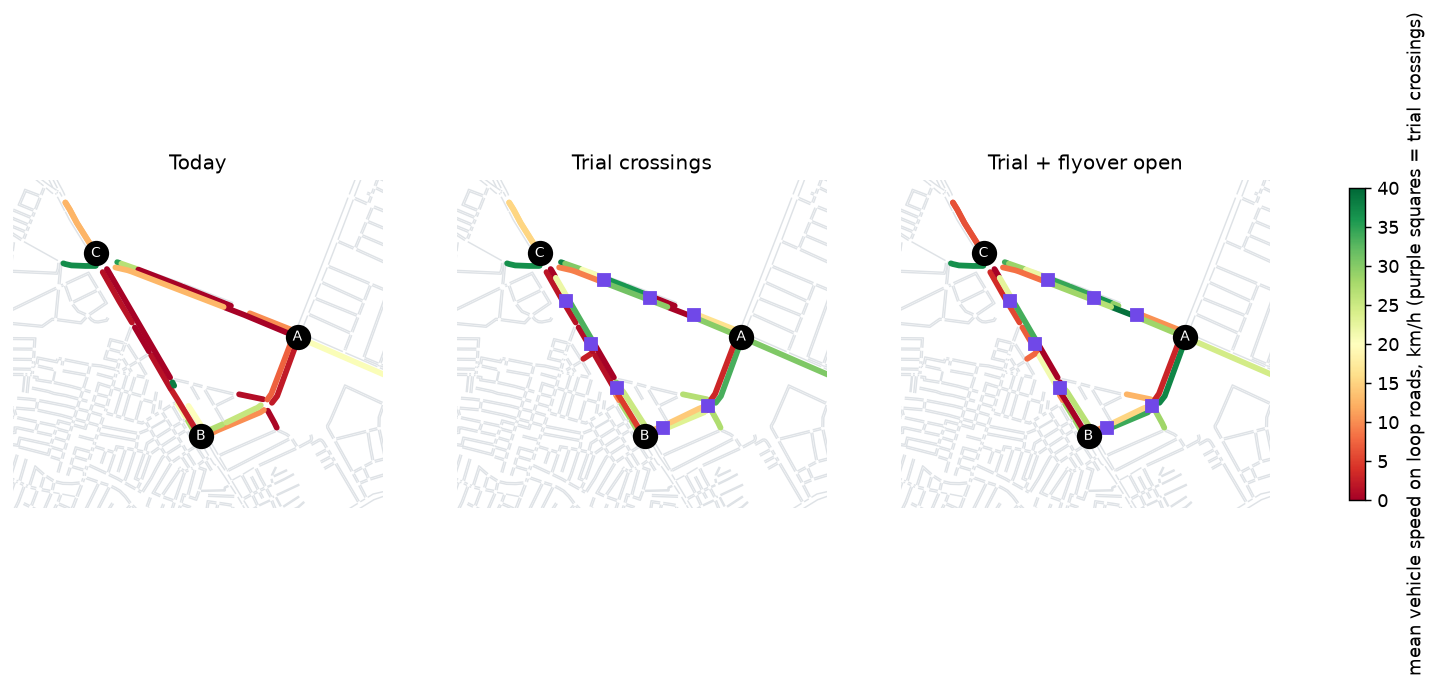
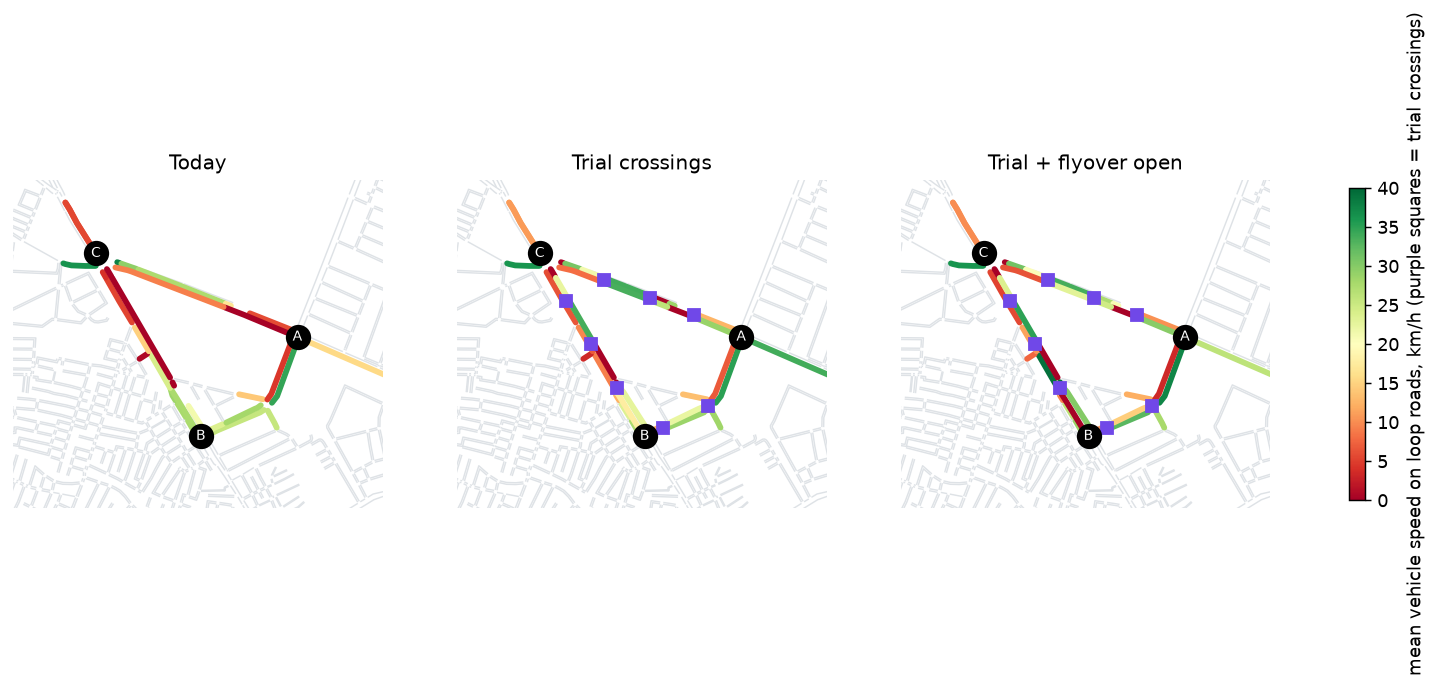
Turn-only median lane with a protected green at C; snapshot tool
Baseline now moves: 12,552 of 14,119 vehicles enter, loop speeds are
8-29 km/h, pedestrian results are back to their earlier values.

diff --git a/scripts/snapshot.py b/scripts/snapshot.py
@@ -1,0 +1,48 @@
+"""Draw a still picture of a simulation moment from SUMO's position output (no display needed).
+
+Used to see where traffic is stuck when sumo-gui cannot be looked at. Lanes are drawn from the network, vehicles
+from an FCD file (sumo --fcd-output) at one timestep: colour by type, a red outline when stopped.
+
+  python snapshot.py NET FCD OUT.png LON LAT [half_width_m=120] [time]
+"""
+import math, sys, xml.etree.ElementTree as ET
+from PIL import Image, ImageDraw
+from common import read_net
+
+net_f, fcd_f, out_f, lon, lat = sys.argv[1], sys.argv[2], sys.argv[3], float(sys.argv[4]), float(sys.argv[5])
+half = float(sys.argv[6]) if len(sys.argv) > 6 else 120.0
+want_t = sys.argv[7] if len(sys.argv) > 7 else None
+net = read_net(net_f); cx, cy = net.convertLonLat2XY(lon, lat)
+W = 1400; S = W / (2 * half)
+px = lambda x, y: ((x - cx + half) * S, (cy + half - y) * S)
+img = Image.new('RGB', (W, W), (245, 243, 238)); d = ImageDraw.Draw(img, 'RGBA')
+for e in net.getEdges(withInternal=True):
+    for l in e.getLanes():
+        shp = l.getShape()
+        if not any(abs(x - cx) < half + 30 and abs(y - cy) < half + 30 for x, y in shp): continue
+        veh = l.allows('passenger'); ped = l.allows('pedestrian') and not veh
+        col = (150, 150, 150, 255) if veh else (225, 215, 195, 255) if ped else (190, 190, 190, 255)
+        if e.getFunction() == 'crossing': col = (255, 255, 255, 255)
+        d.line([px(*p) for p in shp], fill=col, width=max(1, int(l.getWidth() * S) - 1))
+        if veh and e.getFunction() != 'internal' and l.getLength() > 25:
+            mx, my = shp[len(shp) // 2]; d.text(px(mx, my), f"{e.getID()}_{l.getIndex()}", fill=(60, 60, 60, 255))
+COL = {'two_wheeler': (255, 140, 0), 'car': (40, 110, 220), 'auto': (30, 160, 70), 'bus': (220, 30, 30), 'person': (220, 0, 220)}
+step = None
+for ev, el in ET.iterparse(fcd_f, events=('start', 'end')):
+    if ev == 'start' and el.tag == 'timestep': cur = el.get('time')
+    if ev == 'end' and el.tag == 'timestep':
+        if want_t is None or cur.startswith(want_t): step = el; break
+        el.clear()
+n = stopped = 0
+for v in step:
+    x, y = float(v.get('x')), float(v.get('y'))
+    if abs(x - cx) > half or abs(y - cy) > half: continue
+    X, Y = px(x, y)
+    if v.tag == 'person': d.ellipse([X - 2, Y - 2, X + 2, Y + 2], fill=COL['person'] + (255,)); continue
+    t = v.get('type'); col = COL.get(t, (130, 90, 50)); sp = float(v.get('speed')); a = math.radians(90 - float(v.get('angle')))
+    L = {'two_wheeler': 2.0, 'car': 4.3, 'auto': 2.8, 'bus': 11.0}.get(t, 6.0); Wd = {'two_wheeler': 0.8, 'bus': 2.5}.get(t, 1.7)
+    bx, by = x - math.cos(a) * L, y - math.sin(a) * L; nx, ny = -math.sin(a) * Wd / 2, math.cos(a) * Wd / 2
+    poly = [px(x + nx, y + ny), px(x - nx, y - ny), px(bx - nx, by - ny), px(bx + nx, by + ny)]
+    d.polygon(poly, fill=col + (255,), outline=(200, 0, 0, 255) if sp < 0.3 else (0, 0, 0, 255)); n += 1; stopped += sp < 0.3
+d.text((10, 10), f"t={step.get('time')}  vehicles {n}, stopped {stopped} (red outline)   orange 2-wheeler, blue car, green auto, red bus, brown goods, magenta people", fill=(0, 0, 0, 255))
+img.save(out_f); print(out_f, 'vehicles', n, 'stopped', stopped)

diff --git a/scripts/build_net.py b/scripts/build_net.py
@@ -143,10 +143,32 @@ for jid, ll in JUNCTIONS.items():
         if jid not in SIGNALISED:
             if near and n.getType().startswith('traffic_light'): unset.append(n.getID())
         elif len(road) >= 3 and main and n.getType() != 'traffic_light' and near: tls_nodes.append(n.getID())
+# turn-only median lane at the signalised junctions (config signals._turn_note): drop the straight-ahead movement from the
+# lane that also turns across oncoming traffic, so netconvert gives that turn a protected green
+con = ET.Element('connections'); turn_lanes = 0
+TURN_AT = [j for j in C.get('turn_only_median_lane_at', SIGNALISED) if j in SIGNALISED]
+for jid in TURN_AT:
+    x, y = p1.convertLonLat2XY(*JUNCTIONS[jid])
+    for n in p1.getNodes():
+        if math.dist(n.getCoord(), (x, y)) > RADIUS[jid] or not (n.getID() in tls_nodes or n.getType().startswith('traffic_light')): continue
+        for e in n.getIncoming():
+            lanes = [l.getIndex() for l in e.getLanes() if l.allows('passenger')]
+            if len(lanes) < 3: continue
+            top = [c for o in e.getOutgoing() for c in e.getConnections(o) if c.getFromLane().getIndex() == lanes[-1]]
+            turns = [c for c in top if c.getDirection() in ('r', 'R', 't', 'T')]          # left-hand traffic: the turn across oncoming traffic
+            straight = [c for c in top if c.getDirection() == 's']
+            if turns and straight:
+                for c in straight:
+                    ET.SubElement(con, 'delete', attrib={'from': e.getID(), 'to': c.getTo().getID(), 'fromLane': str(lanes[-1]), 'toLane': str(c.getToLane().getIndex())})
+                turn_lanes += 1
+ET.ElementTree(con).write(P('net', 'plain', 'turn_lanes.con.xml'))
+if turn_lanes: patched.append(f"turn-only median lane with a protected green on {turn_lanes} approach(es) at junction(s) {', '.join(TURN_AT)}")
 patched.append(f"signals at junctions {', '.join(SIGNALISED)}" + (f"; removed at {len(unset)} node(s) of the others" if unset else ''))
 run([BIN('netconvert'), '-c', P('net', 'tls.netccfg'), '--sumo-net-file', P('net', 'pass1.net.xml'),
      '--output-file', P('net', 'base.net.xml')] + (['--tls.set', ','.join(tls_nodes)] if tls_nodes else [])
-    + (['--tls.unset', ','.join(unset)] if unset else []) + tls_opts,
+    + (['--tls.unset', ','.join(unset)] if unset else [])
+    + (['--connection-files', P('net', 'plain', 'turn_lanes.con.xml'), '--tls.rebuild', 'true',
+        '--tls.left-green.time', str(C.get('protected_turn_green_s', 6))] if turn_lanes else []) + tls_opts,
     log=P('out', 'checks', 'netconvert_pass2.log'))
 
 # ---- checks --------------------------------------------------------------------------------

diff --git a/report/REPORT.md b/report/REPORT.md
@@ -16,9 +16,9 @@ volumes, pedestrian volumes and signal timings are **assumptions** until the sit
 
 | Scenario | People crossing (trips) | Crossing trip time, s (Δ vs today) | Extra walk, m (Δ) | Time lost walking, s (Δ) | Vehicle delay per trip incl. waiting to enter, s (Δ) | Bus delay per trip, s (Δ) | Vehicles never let in | Teleports | Collisions |
 |---|---|---|---|---|---|---|---|---|---|
-| Today | 2610 | 196.6 (+0.0) | 145.4 (+0.0) | 64.4 (+0.0) | 834.0 (+0.0) | 972.1 (+0.0) | 3547 | 174 | 23 |
-| Trial crossings | 2609 | 141.2 (-55.4) | 95.1 (-50.3) | 45.7 (-18.7) | 713.8 (-120.2) | 1052.4 (+80.3) | 2936 | 148 | 25 |
-| Trial + flyover open | 2609 | 141.2 (-55.4) | 94.8 (-50.6) | 46.0 (-18.4) | 293.9 (-540.1) | 539.1 (-433.0) | 160 | 94 | 10 |
+| Today | 2610 | 203.0 (+0.0) | 145.2 (+0.0) | 71.0 (+0.0) | 451.7 (+0.0) | 550.9 (+0.0) | 1567 | 198 | 15 |
+| Trial crossings | 2557 | 236.4 (+33.4) | 95.1 (-50.1) | 140.8 (+69.8) | 587.4 (+135.7) | 802.2 (+251.3) | 2282 | 129 | 14 |
+| Trial + flyover open | 2609 | 142.9 (-60.1) | 94.8 (-50.4) | 47.7 (-23.3) | 258.6 (-193.1) | 443.7 (-107.2) | 164 | 90 | 6 |
 
 *Vehicles never let in* = demand that could not enter the network before the simulation ended — a sign the assumed volumes exceed what the entries and signals can carry (Madiwala is congested at peak, but the volumes are uncalibrated).
 
@@ -27,117 +27,117 @@ volumes, pedestrian volumes and signal timings are **assumptions** until the sit
 ### People crossing each road
 | Scenario | Road | Trips | Trip time mean s | p85 s | Time lost s | Walked m | Straight-line m | Extra m | Detour factor (median) |
 |---|---|---|---|---|---|---|---|---|---|
-| Today | 100 Feet Road | 825 | 99.5 | 162.0 | 44.4 | 75.5 | 33.5 | 42.0 | 1.5 |
-| Today | Hosur Road | 994 | 297.1 | 517.0 | 77.1 | 302.5 | 39.6 | 262.9 | 5.79 |
-| Today | Sarjapura Road | 791 | 171.5 | 283.5 | 69.4 | 140.2 | 34.6 | 105.6 | 2.96 |
-| Trial crossings | 100 Feet Road | 824 | 99.0 | 134.5 | 30.7 | 94.0 | 33.5 | 60.5 | 1.42 |
-| Trial crossings | Hosur Road | 994 | 197.3 | 432.0 | 53.0 | 198.3 | 39.6 | 158.7 | 3.22 |
-| Trial crossings | Sarjapura Road | 791 | 114.8 | 176.0 | 52.1 | 85.7 | 34.6 | 51.1 | 2.35 |
-| Trial + flyover open | 100 Feet Road | 824 | 98.8 | 128.5 | 30.7 | 94.0 | 33.5 | 60.5 | 1.42 |
-| Trial + flyover open | Hosur Road | 994 | 196.2 | 438.0 | 52.2 | 197.6 | 39.6 | 158.0 | 3.22 |
-| Trial + flyover open | Sarjapura Road | 791 | 116.1 | 173.5 | 54.2 | 85.6 | 34.6 | 51.0 | 2.35 |
+| Today | 100 Feet Road | 825 | 99.7 | 153.0 | 44.6 | 75.5 | 33.5 | 42.0 | 1.5 |
+| Today | Hosur Road | 994 | 292.4 | 500.5 | 72.6 | 302.3 | 39.6 | 262.7 | 5.79 |
+| Today | Sarjapura Road | 791 | 198.5 | 310.0 | 96.6 | 139.9 | 34.6 | 105.3 | 2.96 |
+| Trial crossings | 100 Feet Road | 824 | 93.7 | 123.5 | 25.5 | 94.0 | 33.5 | 60.5 | 1.42 |
+| Trial crossings | Hosur Road | 942 | 454.4 | 900.5 | 307.3 | 202.1 | 39.7 | 162.4 | 3.27 |
+| Trial crossings | Sarjapura Road | 791 | 125.3 | 190.0 | 62.6 | 85.7 | 34.6 | 51.0 | 2.35 |
+| Trial + flyover open | 100 Feet Road | 824 | 92.9 | 120.5 | 24.8 | 94.1 | 33.5 | 60.6 | 1.42 |
+| Trial + flyover open | Hosur Road | 994 | 195.7 | 439.5 | 51.7 | 197.6 | 39.6 | 158.0 | 3.2 |
+| Trial + flyover open | Sarjapura Road | 791 | 128.5 | 196.5 | 66.5 | 85.6 | 34.6 | 51.0 | 2.35 |
 
 ### Vehicles along each loop road
 ![vehicles](vehicles.png)
 
 | Scenario | Road | Direction | Length m | Travel time s | Free-flow s | Delay s | Avg speed km/h | Vehicles/h (max edge) |
 |---|---|---|---|---|---|---|---|---|
-| Today | 100 Feet Road | A>B | 478 | 839.5 | 37.4 | 802.1 | 2.1 | 306 |
-| Today | 100 Feet Road | B>A | 474 | 397.7 | 56.9 | 340.8 | 4.3 | 714 |
-| Today | Hosur Road | B>C | 829 | 2311.0 | 65.1 | 2245.8 | 1.3 | 526 |
-| Today | Hosur Road | C>B | 725 | 109.0 | 49.1 | 59.8 | 24.0 | 2243 |
-| Today | Sarjapura Road | C>A | 750 | 150.9 | 51.3 | 99.6 | 17.9 | 2243 |
-| Today | Sarjapura Road | A>C | 922 | 181.0 | 66.4 | 114.5 | 18.4 | 1407 |
-| Trial crossings | 100 Feet Road | A>B | 463 | 68.8 | 36.3 | 32.5 | 24.2 | 900 |
-| Trial crossings | 100 Feet Road | B>A | 460 | 294.3 | 55.2 | 239.0 | 5.6 | 384 |
-| Trial crossings | Hosur Road | B>C | 819 | 1182.6 | 64.4 | 1118.2 | 2.5 | 689 |
-| Trial crossings | Hosur Road | C>B | 793 | 127.4 | 57.8 | 69.6 | 22.4 | 2263 |
-| Trial crossings | Sarjapura Road | C>A | 737 | 128.3 | 50.4 | 77.9 | 20.7 | 2263 |
-| Trial crossings | Sarjapura Road | A>C | 910 | 145.5 | 65.5 | 80.0 | 22.5 | 1094 |
-| Trial + flyover open | 100 Feet Road | A>B | 463 | 51.3 | 36.3 | 15.0 | 32.5 | 572 |
-| Trial + flyover open | 100 Feet Road | B>A | 460 | 327.8 | 55.2 | 272.5 | 5.1 | 534 |
-| Trial + flyover open | Hosur Road | B>C | 819 | 286.7 | 64.4 | 222.4 | 10.3 | 1744 |
-| Trial + flyover open | Hosur Road | C>B | 793 | 196.1 | 57.8 | 138.3 | 14.5 | 2143 |
-| Trial + flyover open | Sarjapura Road | C>A | 737 | 225.0 | 50.4 | 174.5 | 11.8 | 2143 |
-| Trial + flyover open | Sarjapura Road | A>C | 910 | 165.1 | 65.5 | 99.5 | 19.9 | 855 |
+| Today | 100 Feet Road | A>B | 478 | 59.0 | 37.4 | 21.7 | 29.2 | 1163 |
+| Today | 100 Feet Road | B>A | 474 | 223.3 | 56.9 | 166.4 | 7.6 | 459 |
+| Today | Hosur Road | B>C | 829 | 353.4 | 65.1 | 288.3 | 8.4 | 2158 |
+| Today | Hosur Road | C>B | 725 | 186.7 | 49.1 | 137.6 | 14.0 | 2120 |
+| Today | Sarjapura Road | C>A | 750 | 288.2 | 51.3 | 236.9 | 9.4 | 2120 |
+| Today | Sarjapura Road | A>C | 922 | 238.8 | 66.4 | 172.4 | 13.9 | 918 |
+| Trial crossings | 100 Feet Road | A>B | 463 | 55.3 | 36.3 | 19.0 | 30.1 | 861 |
+| Trial crossings | 100 Feet Road | B>A | 460 | 167.8 | 55.2 | 112.5 | 9.9 | 366 |
+| Trial crossings | Hosur Road | B>C | 819 | 289.4 | 64.4 | 225.0 | 10.2 | 1746 |
+| Trial crossings | Hosur Road | C>B | 793 | 150.9 | 57.8 | 93.1 | 18.9 | 2318 |
+| Trial crossings | Sarjapura Road | C>A | 737 | 161.8 | 50.4 | 111.4 | 16.4 | 2318 |
+| Trial crossings | Sarjapura Road | A>C | 910 | 151.0 | 65.5 | 85.5 | 21.7 | 918 |
+| Trial + flyover open | 100 Feet Road | A>B | 463 | 51.4 | 36.3 | 15.1 | 32.4 | 621 |
+| Trial + flyover open | 100 Feet Road | B>A | 460 | 306.6 | 55.2 | 251.3 | 5.4 | 354 |
+| Trial + flyover open | Hosur Road | B>C | 819 | 223.9 | 64.4 | 159.5 | 13.2 | 2066 |
+| Trial + flyover open | Hosur Road | C>B | 793 | 145.0 | 57.8 | 87.2 | 19.7 | 2271 |
+| Trial + flyover open | Sarjapura Road | C>A | 737 | 181.6 | 50.4 | 131.2 | 14.6 | 2271 |
+| Trial + flyover open | Sarjapura Road | A>C | 910 | 187.5 | 65.5 | 122.0 | 17.5 | 795 |
 
 ### Queues at signals
 ![queues](queues.png)
 
 | Scenario | Signal (A/B/C, X0-X7 = trial crossings) | Approach lanes | Mean queue, worst lane m | Max queue m |
 |---|---|---|---|---|
-| Today | A | 18 | 40.2 | 150.1 |
-| Today | C | 20 | 61.9 | 150.1 |
-| Trial crossings | A | 18 | 69.1 | 150.1 |
-| Trial crossings | C | 20 | 38.1 | 150.1 |
-| Trial crossings | X0 | 8 | 8.0 | 75.8 |
-| Trial crossings | X1 | 8 | 4.4 | 80.9 |
-| Trial crossings | X2 | 4 | 0.1 | 4.8 |
-| Trial crossings | X3 | 14 | 17.6 | 29.1 |
-| Trial crossings | X4 | 14 | 71.2 | 75.3 |
-| Trial crossings | X5 | 12 | 3.0 | 53.2 |
-| Trial crossings | X6 | 12 | 1.6 | 27.3 |
-| Trial crossings | X7 | 12 | 3.6 | 139.3 |
-| Trial + flyover open | A | 18 | 86.4 | 150.1 |
-| Trial + flyover open | C | 20 | 143.5 | 150.1 |
-| Trial + flyover open | X0 | 8 | 6.9 | 77.1 |
-| Trial + flyover open | X1 | 8 | 4.0 | 45.1 |
-| Trial + flyover open | X2 | 4 | 0.2 | 11.1 |
-| Trial + flyover open | X3 | 14 | 9.2 | 35.9 |
-| Trial + flyover open | X4 | 14 | 69.3 | 73.2 |
-| Trial + flyover open | X5 | 12 | 3.8 | 59.6 |
-| Trial + flyover open | X6 | 12 | 1.4 | 30.6 |
-| Trial + flyover open | X7 | 12 | 5.0 | 139.4 |
+| Today | A | 18 | 72.5 | 150.1 |
+| Today | C | 20 | 88.8 | 150.1 |
+| Trial crossings | A | 18 | 37.5 | 137.7 |
+| Trial crossings | C | 20 | 60.5 | 150.1 |
+| Trial crossings | X0 | 8 | 1.1 | 26.4 |
+| Trial crossings | X1 | 8 | 3.6 | 49.8 |
+| Trial crossings | X2 | 4 | 0.1 | 5.0 |
+| Trial crossings | X3 | 14 | 4.3 | 35.0 |
+| Trial crossings | X4 | 14 | 24.8 | 73.2 |
+| Trial crossings | X5 | 12 | 2.4 | 61.4 |
+| Trial crossings | X6 | 12 | 1.5 | 35.6 |
+| Trial crossings | X7 | 12 | 3.9 | 139.4 |
+| Trial + flyover open | A | 18 | 99.9 | 150.1 |
+| Trial + flyover open | C | 20 | 69.6 | 150.1 |
+| Trial + flyover open | X0 | 8 | 11.6 | 81.7 |
+| Trial + flyover open | X1 | 8 | 3.2 | 45.4 |
+| Trial + flyover open | X2 | 4 | 0.3 | 24.4 |
+| Trial + flyover open | X3 | 14 | 3.2 | 28.2 |
+| Trial + flyover open | X4 | 14 | 37.1 | 73.2 |
+| Trial + flyover open | X5 | 12 | 8.7 | 89.7 |
+| Trial + flyover open | X6 | 12 | 1.8 | 40.2 |
+| Trial + flyover open | X7 | 12 | 3.9 | 139.4 |
 
 Queue detectors cover the last 150 m of each approach lane, so 150 m means "the queue reaches past the detector".
 
 ### Crossing use (people per hour)
 | Scenario | Crossing | People/h |
 |---|---|---|
-| Today | A | 1121 |
-| Today | B | 1628 |
-| Today | C | 1158 |
+| Today | A | 1131 |
+| Today | B | 1619 |
+| Today | C | 1195 |
 | Today | FOB BC@612 | 484 |
-| Today | FOB CA@415 | 147 |
-| Today | foot bridges off the loop | 9 |
-| Today | other junctions | 11673 |
-| Trial crossings | A | 1132 |
-| Trial crossings | B | 676 |
-| Trial crossings | C | 973 |
-| Trial crossings | FOB BC@612 | 212 |
+| Today | FOB CA@415 | 143 |
+| Today | foot bridges off the loop | 8 |
+| Today | other junctions | 11674 |
+| Trial crossings | A | 1129 |
+| Trial crossings | B | 679 |
+| Trial crossings | C | 974 |
+| Trial crossings | FOB BC@612 | 189 |
 | Trial crossings | FOB CA@415 | 0 |
 | Trial crossings | X0 | 14 |
-| Trial crossings | X1 | 266 |
-| Trial crossings | X2 | 236 |
+| Trial crossings | X1 | 265 |
+| Trial crossings | X2 | 237 |
 | Trial crossings | X3 | 480 |
 | Trial crossings | X4 | 107 |
-| Trial crossings | X5 | 159 |
+| Trial crossings | X5 | 158 |
 | Trial crossings | X6 | 39 |
-| Trial crossings | X7 | 74 |
-| Trial crossings | foot bridges off the loop | 9 |
-| Trial crossings | other junctions | 9320 |
-| Trial + flyover open | A | 1120 |
+| Trial crossings | X7 | 71 |
+| Trial crossings | foot bridges off the loop | 7 |
+| Trial crossings | other junctions | 9238 |
+| Trial + flyover open | A | 1165 |
 | Trial + flyover open | B | 681 |
-| Trial + flyover open | C | 981 |
-| Trial + flyover open | FOB BC@612 | 202 |
+| Trial + flyover open | C | 1006 |
+| Trial + flyover open | FOB BC@612 | 196 |
 | Trial + flyover open | FOB CA@415 | 0 |
 | Trial + flyover open | X0 | 14 |
 | Trial + flyover open | X1 | 261 |
 | Trial + flyover open | X2 | 233 |
-| Trial + flyover open | X3 | 477 |
+| Trial + flyover open | X3 | 479 |
 | Trial + flyover open | X4 | 107 |
-| Trial + flyover open | X5 | 157 |
+| Trial + flyover open | X5 | 156 |
 | Trial + flyover open | X6 | 39 |
-| Trial + flyover open | X7 | 72 |
-| Trial + flyover open | foot bridges off the loop | 8 |
-| Trial + flyover open | other junctions | 9324 |
+| Trial + flyover open | X7 | 73 |
+| Trial + flyover open | foot bridges off the loop | 9 |
+| Trial + flyover open | other junctions | 9398 |
 
 ### Buses
 | Scenario | Buses (finished) | Trip time in area s | Delay mean s | Delay p85 s |
 |---|---|---|---|---|
-| Today | 95 | 1147.4 | 972.1 | 2421.8 |
-| Trial crossings | 118 | 1212.7 | 1052.4 | 2866.0 |
-| Trial + flyover open | 229 | 705.6 | 539.1 | 1256.7 |
+| Today | 195 | 717.1 | 550.9 | 1070.5 |
+| Trial crossings | 174 | 958.3 | 802.2 | 1410.9 |
+| Trial + flyover open | 218 | 615.7 | 443.7 | 683.7 |
 
 ### Map
 ![map](map.png)

diff --git a/HOWTO.md b/HOWTO.md
@@ -60,6 +60,13 @@ All assumed numbers (volumes, signal timings, pedestrian rates) are in `config/a
   edge 0.2 m long. An actuated signal puts its sensor on that edge, sees nothing and cuts every green to the minimum
   (C passed 325 veh/h). `build_net.py` merges such edges into the junction before the signals are built; the join needs
   explicit x/y or netconvert leaves the merged node unplaced, and `--crossings.guess` to rebuild its crossings.
+- **Turns across oncoming traffic starve.** On Hosur Road northbound at C the median lane was shared between straight on
+  and the right turn, which netconvert makes permissive. No gaps ever came, and the single-file queue ran 800 m back
+  through the underpass while three lanes stood empty. `signals.turn_only_median_lane_at` makes that lane turn-only with
+  a protected green (`--tls.rebuild`). Applying it at A as well made netconvert split A into three 32 s phases and
+  jammed Sarjapura Road, so it is on at C only. A workaround for lane logic, not a claim about the street.
+- **Seeing a jam without a screen.** `scripts/snapshot.py` draws a still from `sumo --fcd-output`; tables did not show
+  the single-file queue, the picture did at once.
 - **Which junctions have signals** is `signals.signalised_junctions`. B is off, following the tender's route map; without a
   signal the turn from 100 Feet Road cannot merge into Hosur Road southbound. Unresolved.
 - **Foot over bridges.** OSM maps the bridges and their stairs but does not join them to the roads, so netconvert drops them.
